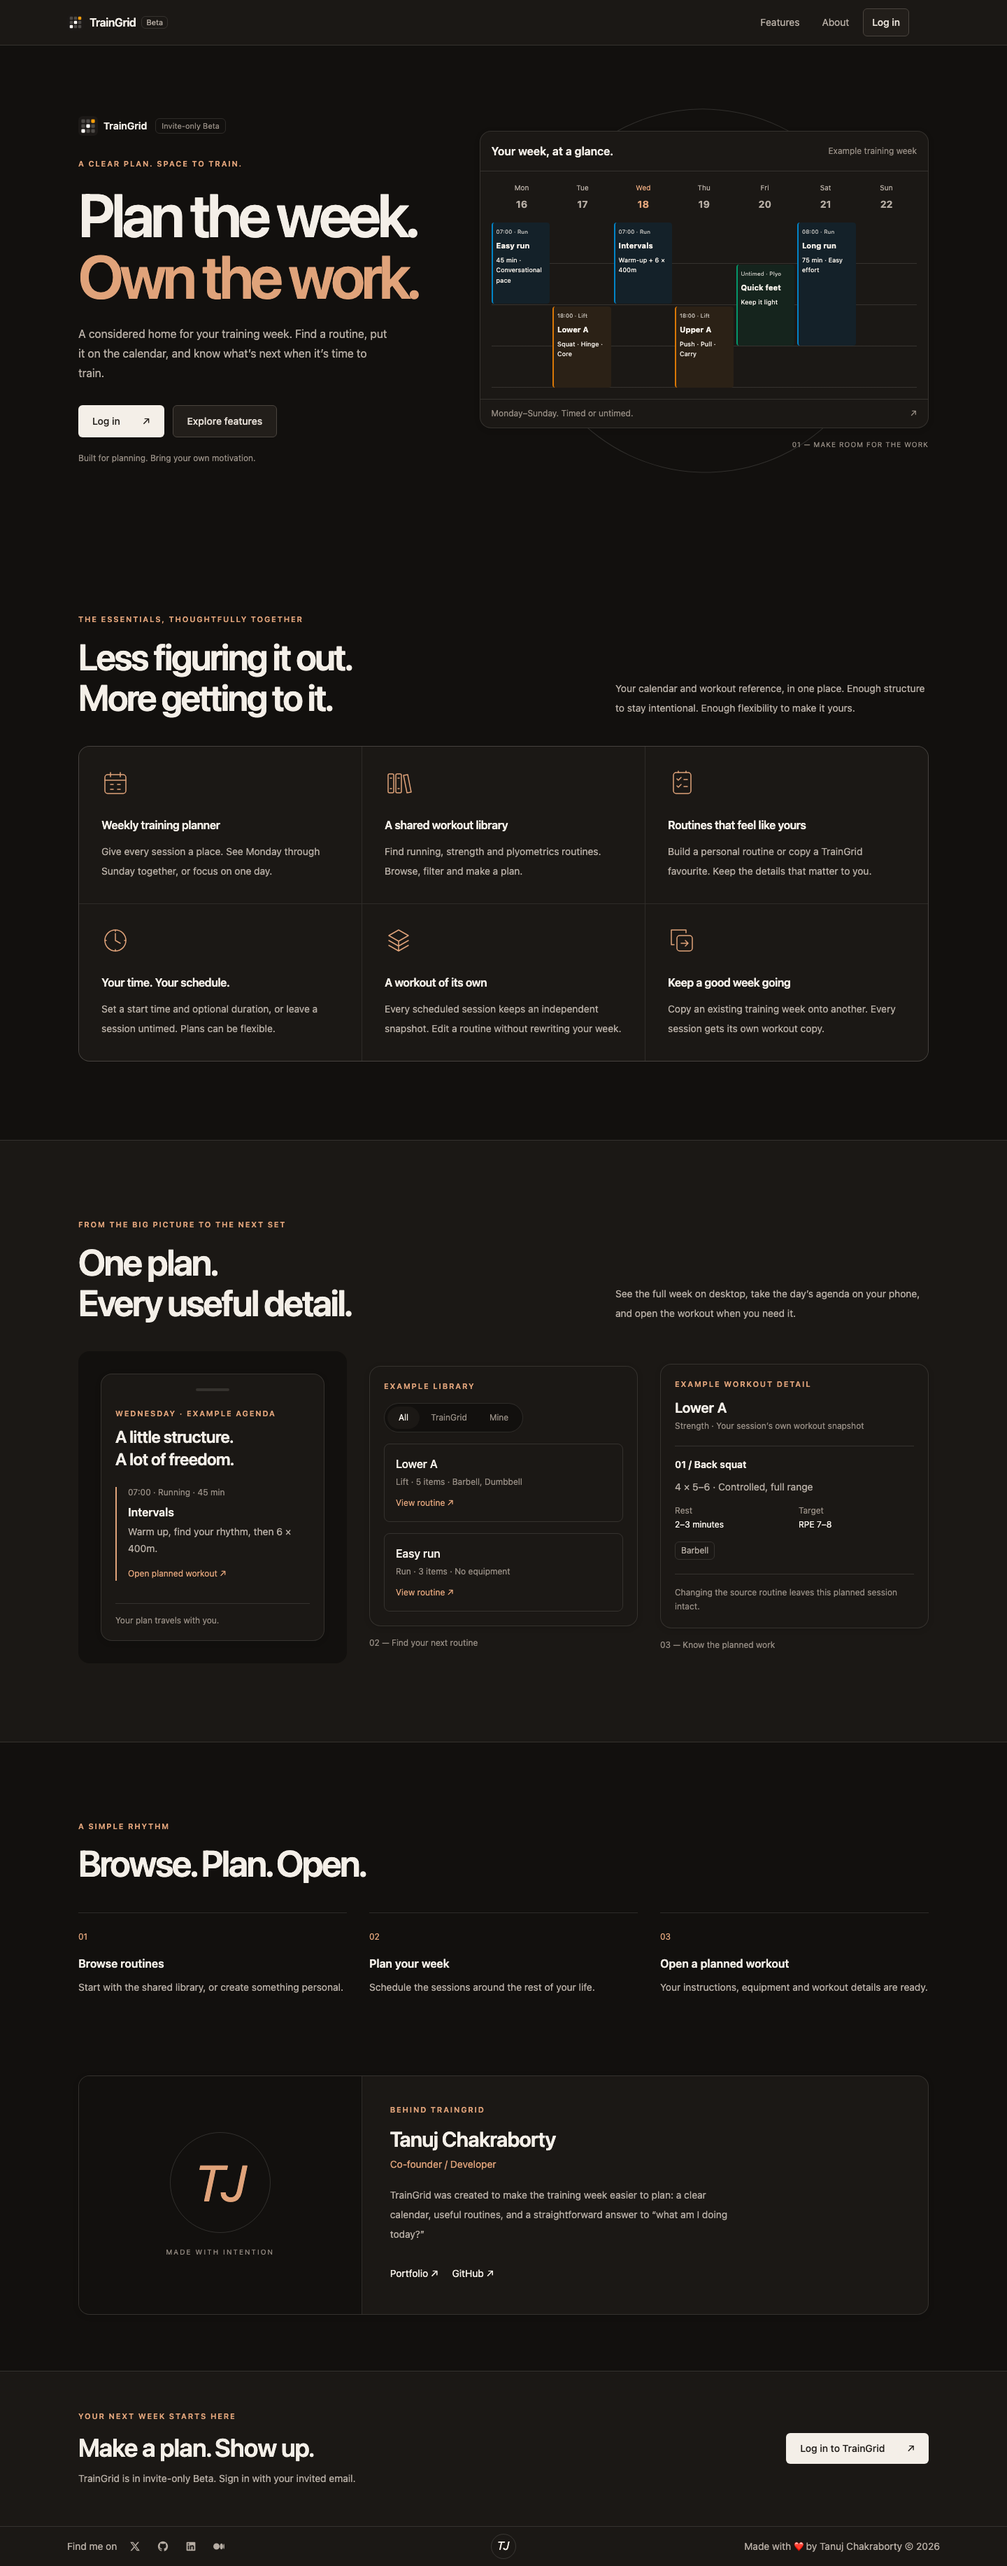
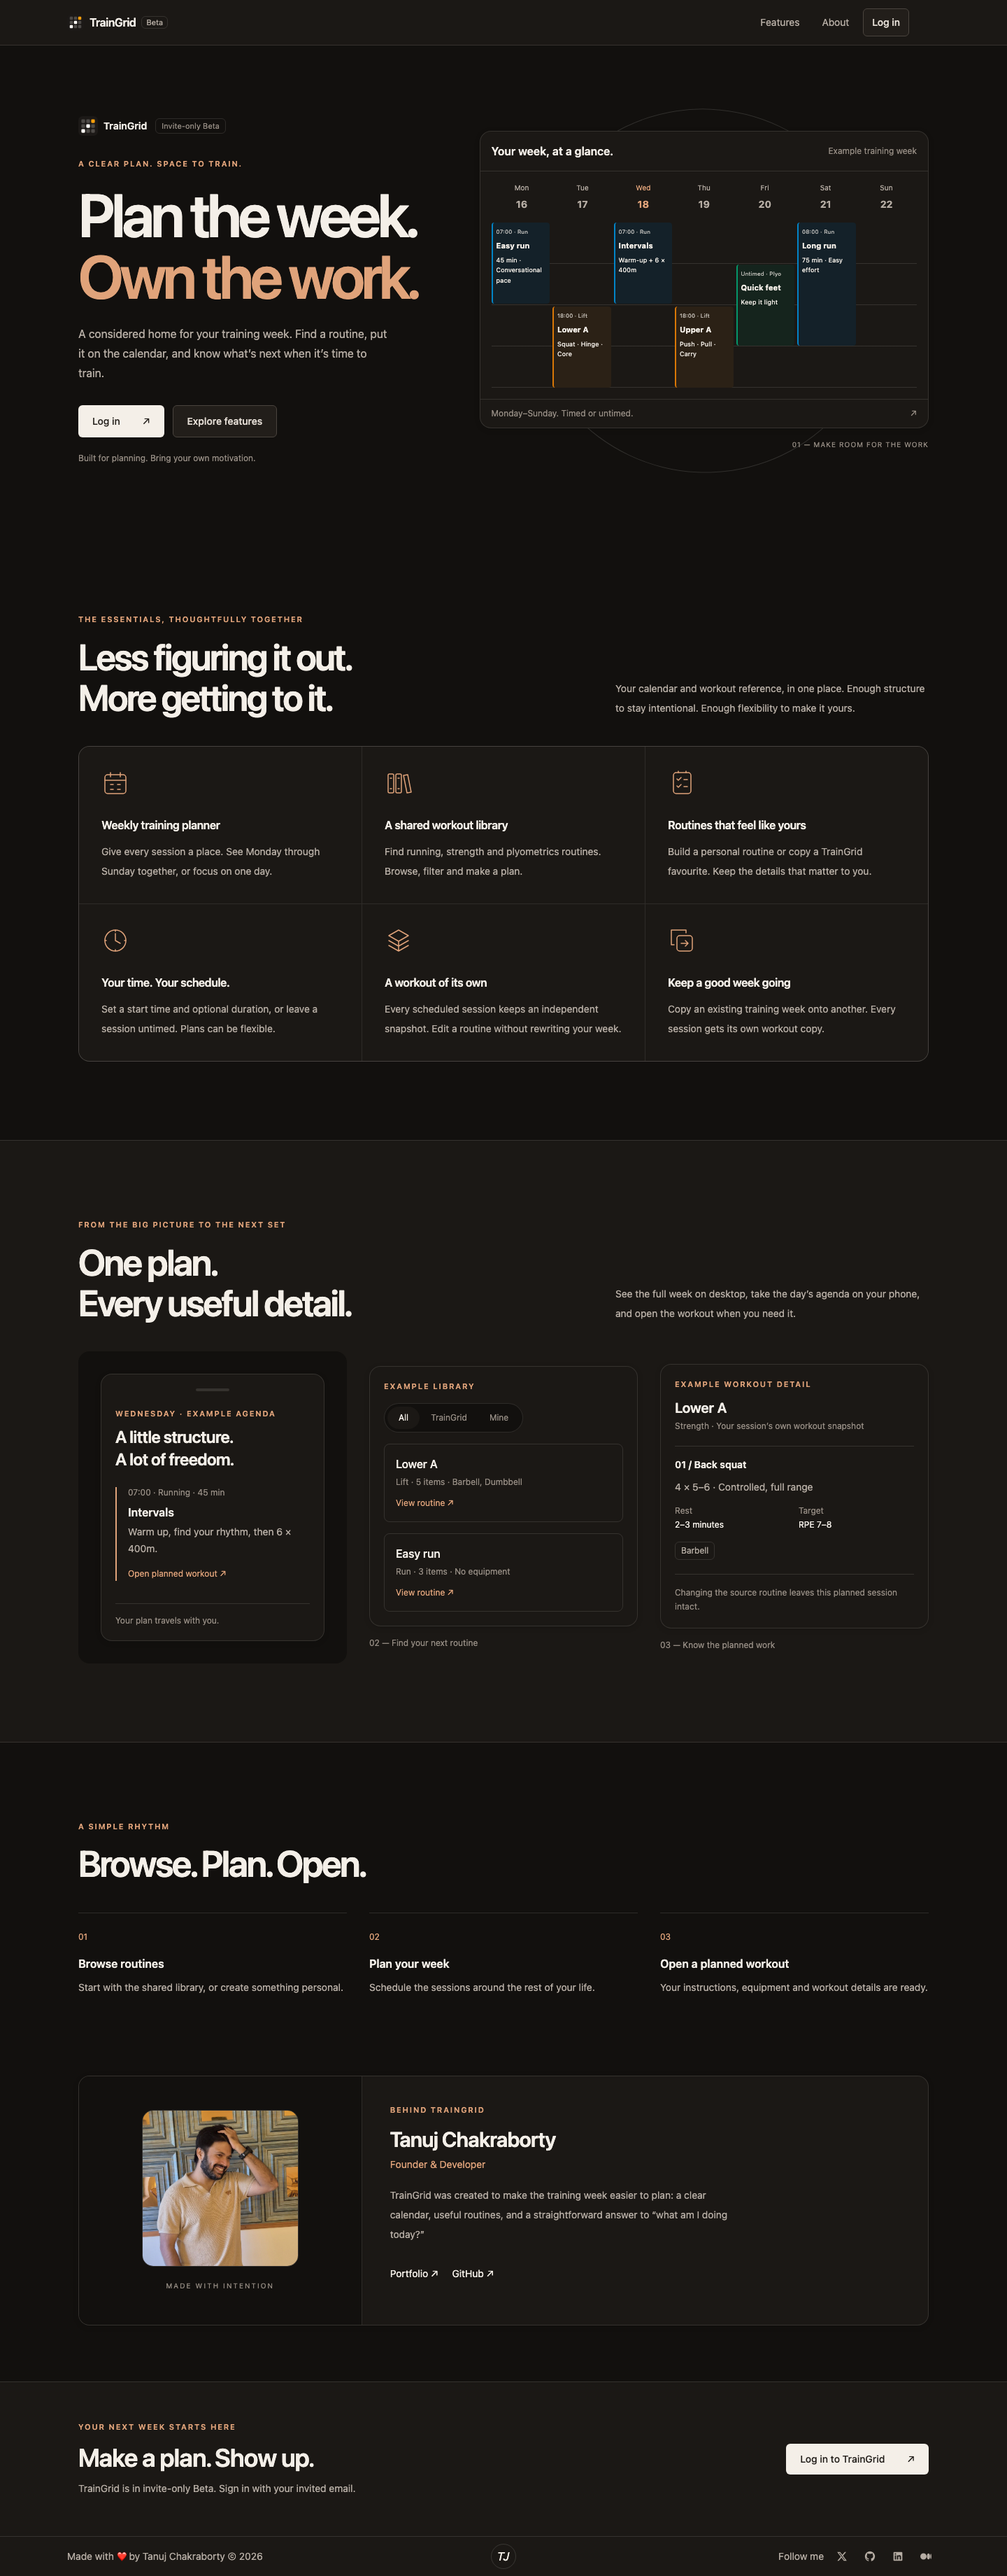
fix(ui): update founder portrait and footer order per review

diff --git a/components/footer/SiteFooter.tsx b/components/footer/SiteFooter.tsx
@@ -1,8 +1,8 @@
 import { GitHubIcon, LinkedInIcon, MediumIcon, XIcon } from "./SocialIcons";
 
 /**
- * Site footer, modelled on iamtj.dev: social links on the left, the "TJ"
- * monogram (linking to iamtj.dev) in the middle, the credit on the right.
+ * Site footer, modelled on iamtj.dev: author credit on the left, the "TJ"
+ * monogram (linking to iamtj.dev) in the middle, the social links on the right.
  * Typography and sizing follow the app header (Geist, 14px text, 40px
  * controls with the header's hover pill, same container and height), except
  * the monogram, which keeps iamtj.dev's Instrument Serif italic ring.
@@ -24,29 +24,15 @@ export function SiteFooter() {
     <footer className="w-full border-t border-line bg-card">
       {/* Same container, gutters and height as the header. */}
       <div className="mx-auto grid max-w-7xl grid-cols-1 items-center justify-items-center gap-2 px-3 py-3 sm:px-4 md:grid-cols-[1fr_auto_1fr] md:gap-3 md:py-2">
-        <nav
-          aria-labelledby="footer-find-me"
-          className="flex items-center gap-1.5 md:justify-self-start"
-        >
-          <p id="footer-find-me" className="whitespace-nowrap text-sm text-stone-600">
-            <span className="underline-reveal">Find me on</span>
-          </p>
-          <ul className="flex items-center">
-            {SOCIAL_LINKS.map(({ name, href, Icon }) => (
-              <li key={name} className="flex">
-                <a
-                  href={href}
-                  target="_blank"
-                  rel="noopener noreferrer"
-                  aria-label={name}
-                  className="inline-flex size-10 items-center justify-center rounded-md text-stone-600 hover:bg-stone-100 hover:text-stone-900 focus-visible:outline-none focus-visible:ring-2 focus-visible:ring-stone-900"
-                >
-                  <Icon />
-                </a>
-              </li>
-            ))}
-          </ul>
-        </nav>
+        <p className="credit-underline text-center text-sm text-stone-600 md:justify-self-start md:text-left">
+          <span className="underline-reveal">Made with</span>{" "}
+          <span className="relative -top-px inline-block text-[0.8em]" role="img" aria-label="love">
+            ❤
+          </span>{" "}
+          <span className="underline-reveal">
+            by {AUTHOR} &copy; {new Date().getFullYear()}
+          </span>
+        </p>
 
         <a
           href={SITE}
@@ -69,15 +55,29 @@ export function SiteFooter() {
           </span>
         </a>
 
-        <p className="credit-underline text-center text-sm text-stone-600 md:justify-self-end md:text-right">
-          <span className="underline-reveal">Made with</span>{" "}
-          <span className="relative -top-px inline-block text-[0.8em]" role="img" aria-label="love">
-            ❤
-          </span>{" "}
-          <span className="underline-reveal">
-            by {AUTHOR} &copy; {new Date().getFullYear()}
-          </span>
-        </p>
+        <nav
+          aria-labelledby="footer-find-me"
+          className="flex items-center gap-1.5 md:justify-self-end"
+        >
+          <p id="footer-find-me" className="whitespace-nowrap text-sm text-stone-600">
+            <span className="underline-reveal">Follow me</span>
+          </p>
+          <ul className="flex items-center">
+            {SOCIAL_LINKS.map(({ name, href, Icon }) => (
+              <li key={name} className="flex">
+                <a
+                  href={href}
+                  target="_blank"
+                  rel="noopener noreferrer"
+                  aria-label={name}
+                  className="inline-flex size-10 items-center justify-center rounded-md text-stone-600 hover:bg-stone-100 hover:text-stone-900 focus-visible:outline-none focus-visible:ring-2 focus-visible:ring-stone-900"
+                >
+                  <Icon />
+                </a>
+              </li>
+            ))}
+          </ul>
+        </nav>
       </div>
     </footer>
   );

diff --git a/tests/ui/landing.spec.ts b/tests/ui/landing.spec.ts
@@ -18,7 +18,9 @@ test.beforeEach(async ({ page }) => {
         ? "text/css"
         : pathname.endsWith(".svg")
           ? "image/svg+xml"
-          : "text/html",
+          : pathname.endsWith(".jpg")
+            ? "image/jpeg"
+            : "text/html",
     });
   });
 });
@@ -58,6 +60,11 @@ for (const theme of ["light", "dark"] as const) {
           .evaluate((el) => getComputedStyle(el).animationName),
       ).toBe("none");
       if (width === 360 || (width === 1440 && height === 900)) {
+        const portrait = page.getByRole("img", { name: "Tanuj Chakraborty", exact: true });
+        await portrait.scrollIntoViewIfNeeded();
+        await expect.poll(() => portrait.evaluate((image) => (image as HTMLImageElement).naturalWidth)).toBe(1170);
+        await portrait.evaluate((image) => (image as HTMLImageElement).decode());
+        await page.evaluate(() => window.scrollTo(0, 0));
         await mkdir("docs/images/epic-3", { recursive: true });
         await page.screenshot({
           path: `docs/images/epic-3/landing-${width}-${theme}.png`,
@@ -88,6 +95,11 @@ test("semantic navigation, focus, public-only content and feature anchor", async
   await expect(
     page.getByRole("heading", { name: "Tanuj Chakraborty" }),
   ).toBeVisible();
+  await expect(page.getByText("Founder & Developer", { exact: true })).toBeVisible();
+  const portrait = page.getByRole("img", { name: "Tanuj Chakraborty", exact: true });
+  await portrait.scrollIntoViewIfNeeded();
+  await expect(portrait).toBeVisible();
+  await expect.poll(() => portrait.evaluate((image) => (image as HTMLImageElement).naturalWidth)).toBe(1170);
   await expect(
     page.getByRole("link", { name: "Invitations", exact: true }),
   ).toHaveCount(0);

diff --git a/e2e/footer.spec.ts b/e2e/footer.spec.ts
@@ -4,7 +4,7 @@ test("the footer shows the social links, monogram and credit on every page", asy
   await page.goto("/login");
   const footer = page.getByRole("contentinfo");
 
-  await expect(footer.getByText("Find me on")).toBeVisible();
+  await expect(footer.getByText("Follow me")).toBeVisible();
   for (const [name, href] of [
     ["X", "https://x.com/_i_am_tj_"],
     ["GitHub", "https://github.com/i-am-tj"],
@@ -46,4 +46,23 @@ for (const [scheme, accent, hairline] of [
 test("the TJ ring fades like iamtj.dev's (300 ms colour transition)", async ({ page }) => {
   await page.goto("/login");
   await expect(page.getByTestId("monogram")).toHaveCSS("transition-duration", "0.3s");
+});
+
+
+test("footer places credit, TJ ring and social links in reading order", async ({ page }) => {
+  for (const width of [360, 1440]) {
+    await page.setViewportSize({ width, height: 900 });
+    await page.goto("/login");
+    const footer = page.getByRole("contentinfo");
+    const credit = (await footer.locator(".credit-underline").boundingBox())!;
+    const ring = (await page.getByTestId("monogram").boundingBox())!;
+    const social = (await footer.getByRole("navigation").boundingBox())!;
+    if (width === 1440) {
+      expect(credit.x + credit.width).toBeLessThan(ring.x);
+      expect(ring.x + ring.width).toBeLessThan(social.x);
+    } else {
+      expect(credit.y + credit.height).toBeLessThanOrEqual(ring.y);
+      expect(ring.y + ring.height).toBeLessThanOrEqual(social.y);
+    }
+  }
 });

diff --git a/components/marketing/LandingPage.tsx b/components/marketing/LandingPage.tsx
@@ -1,3 +1,4 @@
+import Image from "next/image";
 import Link from "next/link";
 import { BrandLogo } from "@/components/BrandLogo";
 import { btnPrimary, btnSecondary } from "@/lib/ui";
@@ -45,7 +46,7 @@ export type LandingPageProps = { creatorRole?: string };
 
 /** Ready for public routing; intentionally has no auth, database or fixture imports. */
 export function LandingPage({
-  creatorRole = "Co-founder / Developer",
+  creatorRole = "Founder & Developer",
 }: LandingPageProps) {
   return (
     <div className="landing">
@@ -210,8 +211,16 @@ export function LandingPage({
         aria-labelledby="creator-title"
       >
         <div className="creator-card ui-panel">
-          <div className="creator-mark" aria-hidden="true">
-            <span className="font-display text-7xl italic text-accent">TJ</span>
+          <div className="creator-mark">
+            <Image
+              src="/marketing/tanuj-chakraborty.jpg"
+              alt="Tanuj Chakraborty"
+              width={1170}
+              height={1170}
+              unoptimized
+              loading="lazy"
+              className="aspect-square w-56 rounded-2xl border border-hairline object-cover"
+            />
             <span className="mt-5 font-mono text-[10px] uppercase tracking-[0.2em] text-stone-500">
               Made with intention
             </span>

diff --git a/app/globals.css b/app/globals.css
@@ -209,7 +209,6 @@ body {
 .showcase-agenda { padding: 2rem 1rem; border-radius: 1rem; background: var(--background); }
 .creator-card { display: grid; overflow: hidden; }
 .creator-mark { display: flex; flex-direction: column; align-items: center; justify-content: center; padding: 3rem 1rem; background: var(--background); border-bottom: 1px solid var(--line); }
-.creator-mark > span:first-child { display: flex; width: 9rem; height: 9rem; align-items: center; justify-content: center; border: 1px solid var(--hairline); border-radius: 50%; }
 @keyframes enter-ui { from { opacity: 0; transform: translateY(10px); } to { opacity: 1; transform: translateY(0); } }
 @media (min-width: 640px) {
   .feature-grid { grid-template-columns: repeat(2,minmax(0,1fr)); }

diff --git a/agents/EPIC-3-UI.md b/agents/EPIC-3-UI.md
@@ -118,11 +118,11 @@ Existing `lib/ui.ts` class exports remain the compatibility layer. Primary, seco
 
 ### Public landing presentation
 
-`LandingPage({ creatorRole? })` has no member data, auth calls or data-fetching imports. Default role is “Co-founder / Developer”. Compose inside one main with PublicHeader and the existing SiteFooter. Root integration is deferred to Claude.
+`LandingPage({ creatorRole? })` has no member data, auth calls or data-fetching imports. Default role is “Founder & Developer”. Compose inside one main with PublicHeader and the existing SiteFooter. Root integration is deferred to Claude.
 
-Sections: original brand and Beta; “Plan the week. Own the work.”; Log in `/login`; Explore features `#features`; weekly planner hero; six capability cards; mobile agenda, routine cards and workout detail; Browse → Plan → Open; Tanuj card using TJ; invite-only final CTA. Existing verified footer links/credit remain. External creator links use supplied portfolio/GitHub URLs; no portrait, accomplishments or company history invented.
+Sections: original brand and Beta; “Plan the week. Own the work.”; Log in `/login`; Explore features `#features`; weekly planner hero; six capability cards; mobile agenda, routine cards and workout detail; Browse → Plan → Open; Tanuj card using the supplied portrait; invite-only final CTA. Existing verified footer links/credit remain. External creator links use supplied portfolio/GitHub URLs; portrait supplied by Tanuj; no accomplishments or company history invented.
 
-All product examples are visibly labelled as examples and are static, generic authored content. They represent real existing models: category, time, duration, equipment and structured workout instructions. They never read member records. Illustrative labels are not interactive mock controls. Hero/calendar, agenda, library and detail graphics are finished responsive HTML/CSS compositions in `ProductPreview.tsx`; feature drawings live in `public/marketing/features.svg`. TJ is a CSS/serif treatment. The product benefits more from readable UI than an isometric/3D effect; no rendering dependencies needed.
+All product examples are visibly labelled as examples and are static, generic authored content. They represent real existing models: category, time, duration, equipment and structured workout instructions. They never read member records. Illustrative labels are not interactive mock controls. Hero/calendar, agenda, library and detail graphics are finished responsive HTML/CSS compositions in `ProductPreview.tsx`; feature drawings live in `public/marketing/features.svg`. The footer retains its CSS/serif TJ treatment; the About card uses the approved local portrait. The product benefits more from readable UI than an isometric/3D effect; no rendering dependencies needed.
 
 `landingMetadata` is an unattached server-side metadata object, intended for the public root only. Social artwork is `/marketing/og-preview.png` (1200×630), static and free of member data. Claude must supply the verified deployment origin as metadataBase on publication; do not invent a canonical hostname.
 
@@ -150,7 +150,7 @@ Run existing lint/typecheck/unit/db/integration/E2E/build suite, secret scan and
 
 ## UI-01 implementation status
 
-Implemented: additive tokens/class variants, three presentation primitives, active member navigation, reusable public shell and landing, six SVG icons, four product compositions, TJ creator treatment, unattached public metadata, static QA harness and responsive test matrix. Existing footer design/theme/menu/library interactions are retained.
+Implemented: additive tokens/class variants, three presentation primitives, active member navigation, reusable public shell and landing, six SVG icons, four product compositions, approved creator portrait, unattached public metadata, static QA harness and responsive test matrix. Existing footer design/theme/menu/library interactions are retained.
 
 Not integrated: public `/` publication and public-shell selection. Existing root redirect remains intact. `/home`, login redesign, invitation/email, calendar and editor refinements await their scheduled PRs. Full workstream is not complete.
 
@@ -173,3 +173,10 @@ Regression-test corrections: wait for streamed library content before measuring 
 Deferred to Claude: coordinated public-root publication and shell selection; authenticated `/home` data and date preparation; post-login defaults; invitation delivery integration. Proposed dashboard and email contracts are explicitly labelled unimplemented in the handoff.
 
 Remaining UI work: UI-02 login states/dashboard; UI-03 admin/email/planner/library/editor/session polish; UI-04 complete hydrated public-page, accessibility/contrast, zoom, motion and performance validation. New public component screenshots establish review evidence, not approved pixel-diff baselines. **Do not start UI-02 before UI-01 review. Do not merge automatically.**
+
+
+### PR #37 review revisions
+
+Creator label is now “Founder & Developer” (still configurable). The About card uses the supplied square portrait from `iamtj-me/public/static/images/tanuj-chakraborty-1x1.jpg`, copied unchanged to `public/marketing/tanuj-chakraborty.jpg`. Explicit dimensions reserve space; the below-fold local image is lazy-loaded without an image-service request. The footer reading/visual order is now author credit → TJ ring → Follow me/social links, horizontally on desktop and vertically on mobile. Verified destinations and ring hover/focus behavior are unchanged.
+
+Revision validation: lint and typecheck passed; all 14 component UI checks and all 5 footer E2E tests passed, including portrait loading and desktop/mobile footer order. The four review screenshots were refreshed after waiting for the lazy-loaded image to decode.
